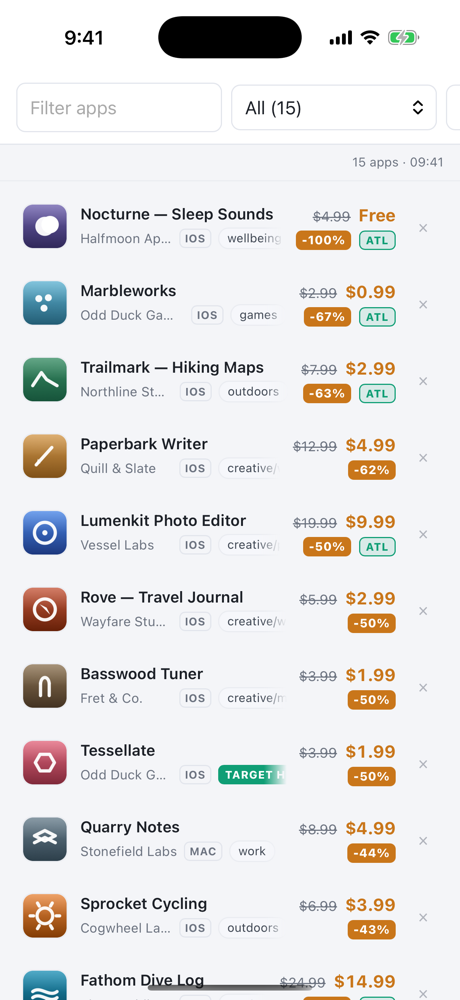
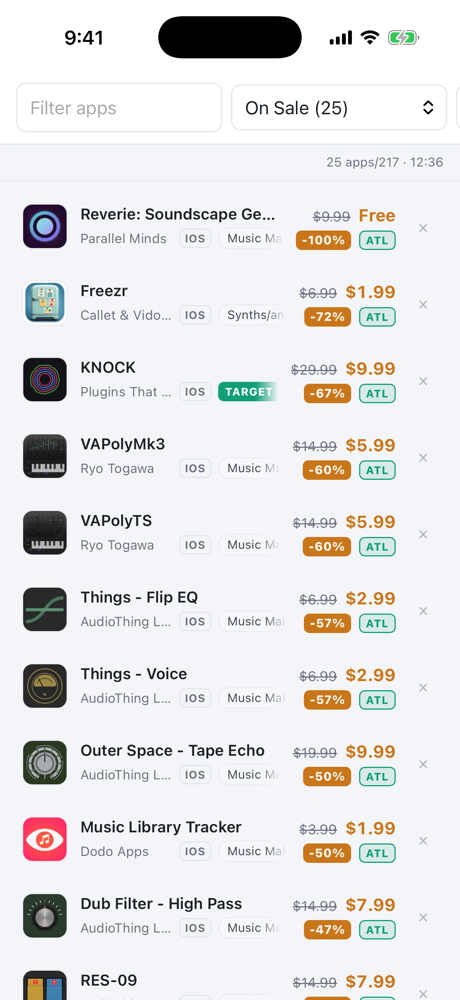
Real screenshots again, and say plainly that they are real
The fictional demo set read as spam, which is a fair reaction: invented app
names in a screenshot look like filler. Real other apps are not an option
either — Apple exposes only today's price, so a genuine discount cannot be
produced for an app nobody has been watching, and inventing one for a real
named app would be a false pricing claim about someone else's product.

So the screenshots go back to the actual 217-app watchlist, and the page now
says so out loud rather than hoping nobody asks. The list is heavy on music
apps; the callout names that instead of curating it away, and turns it into the
reason the app exists.

diff --git a/index.html b/index.html
@@ -222,6 +222,16 @@ h2{font-size:clamp(32px,5.2vw,54px);line-height:1.06;margin:14px 0 0;letter-spac
   background:var(--panel);box-shadow:0 40px 100px -50px rgba(0,0,0,.9)}
 .wide img{width:100%}
 .caption{font-size:12px;color:var(--faint);margin-top:14px;text-align:center}
+/* Screenshots of one person's genuine, lopsided library invite an obvious question. Answer it
+   in the open rather than curating the evidence until it looks like everybody's. */
+.real{margin:36px auto 0;max-width:64ch;border:1px solid var(--line);border-radius:14px;
+  background:var(--ink-2);padding:26px 28px;position:relative;overflow:hidden}
+.real::before{content:"";position:absolute;left:0;top:22px;bottom:22px;width:2px;
+  background:linear-gradient(180deg,var(--amber),transparent)}
+.real h3{font-size:23px;margin:0 0 12px}
+.real p{margin:0 0 12px;color:var(--muted);font-size:13.8px;line-height:1.7}
+.real p:last-child{margin-bottom:0}
+.real em{color:var(--text);font-style:italic}
 
 /* privacy */
 .plain{border-top:1px solid var(--line);border-bottom:1px solid var(--line);background:var(--ink-2)}
@@ -289,28 +299,29 @@ footer{padding:64px 0 76px;border-top:1px solid var(--line)}
         <span class="btn primary">Coming soon<small>Mac App Store &amp; iPhone</small></span>
         <a class="btn" href="#how">See how it works</a>
       </div>
-      <p class="cta-note">In development. No account, no subscription, no tracking.</p>
+      <p class="cta-note">In development. No account, no subscription, no tracking.<br>
+     Every screenshot here is a real watchlist, not a mockup.</p>
     </div>
 
     <div class="shot">
       <img src="assets/iphone-onsale.png" width="460" height="1000"
-           alt="Snipe on iPhone showing a watchlist of apps on sale, each with its old price struck through, the new price in amber, a discount percentage, and an all-time-low badge on the ones that have never been cheaper.">
+           alt="Snipe on iPhone showing 25 real apps currently on sale, each with its old price struck through, the new price in amber, a discount percentage and an all-time-low badge.">
     </div>
   </div>
 </div>
 
 <div class="tape" aria-hidden="true">
   <div class="tape-run">
-    <span><b>−100%</b> $4.99 → Free</span><span><b>−67%</b> $2.99 → $0.99</span>
-    <span><b>−63%</b> $7.99 → $2.99</span><span><b>−62%</b> $12.99 → $4.99</span>
-    <span><b>−50%</b> $19.99 → $9.99</span><span><b>−44%</b> $8.99 → $4.99</span>
-    <span><b>−43%</b> $6.99 → $3.99</span><span><b>−40%</b> $24.99 → $14.99</span>
-    <span><b>−33%</b> $11.99 → $7.99</span>
-    <span><b>−100%</b> $4.99 → Free</span><span><b>−67%</b> $2.99 → $0.99</span>
-    <span><b>−63%</b> $7.99 → $2.99</span><span><b>−62%</b> $12.99 → $4.99</span>
-    <span><b>−50%</b> $19.99 → $9.99</span><span><b>−44%</b> $8.99 → $4.99</span>
-    <span><b>−43%</b> $6.99 → $3.99</span><span><b>−40%</b> $24.99 → $14.99</span>
-    <span><b>−33%</b> $11.99 → $7.99</span>
+    <span><b>−100%</b> $9.99 → Free</span><span><b>−72%</b> $6.99 → $1.99</span>
+    <span><b>−67%</b> $29.99 → $9.99</span><span><b>−60%</b> $14.99 → $5.99</span>
+    <span><b>−57%</b> $6.99 → $2.99</span><span><b>−50%</b> $19.99 → $9.99</span>
+    <span><b>−47%</b> $14.99 → $7.99</span><span><b>−40%</b> $4.99 → $2.99</span>
+    <span><b>−35%</b> $19.99 → $12.99</span>
+    <span><b>−100%</b> $9.99 → Free</span><span><b>−72%</b> $6.99 → $1.99</span>
+    <span><b>−67%</b> $29.99 → $9.99</span><span><b>−60%</b> $14.99 → $5.99</span>
+    <span><b>−57%</b> $6.99 → $2.99</span><span><b>−50%</b> $19.99 → $9.99</span>
+    <span><b>−47%</b> $14.99 → $7.99</span><span><b>−40%</b> $4.99 → $2.99</span>
+    <span><b>−35%</b> $19.99 → $12.99</span>
   </div>
 </div>
 
@@ -402,10 +413,23 @@ footer{padding:64px 0 76px;border-top:1px solid var(--line)}
   </div>
   <div class="wide rise">
     <img src="assets/ipad-inspector.png" width="1350" height="1800"
-         alt="Snipe on iPad: a sidebar of views and nested tags, a list of watched apps with discounts and all-time-low badges, and a detail panel showing current price, regular price, all-time low, a price-history chart and a target-price field.">
+         alt="Snipe on iPad: a sidebar of views and tags, a list of 217 watched apps with discounts and all-time-low badges, and a detail panel showing current price, regular price, all-time low, price history and a target-price field.">
   </div>
-  <p class="caption">Snipe on iPad. The same layout runs on macOS.
-     Screenshots use a sample watchlist &mdash; the apps shown are fictional.</p>
+  <p class="caption">Snipe on iPad. The same layout runs on macOS.</p>
+
+  <div class="real rise">
+    <h3>That&rsquo;s a real watchlist.</h3>
+    <p>
+      Every screenshot on this page is Snipe running on an actual device, showing my own
+      list &mdash; 217 apps, real names, real prices. Nothing here is a mockup and no
+      numbers were invented for the page.
+    </p>
+    <p>
+      It leans hard on music apps because that is what I hoard &mdash; which is rather the point.
+      I built Snipe because my own wishlist got long enough that I kept missing sales on it.
+      Yours will look like whatever <em>you</em> collect.
+    </p>
+  </div>
 </section>
 
 <section id="privacy" class="plain">

diff --git a/README.md b/README.md
@@ -17,11 +17,17 @@ assets/       screenshots, app icon, favicons, social card
 `assets/iphone-onsale.png` and `assets/ipad-inspector.png` are real captures of the real
 app from the iOS Simulator, taken with a clean marketing status bar.
 
-The **watchlist in them is a sample**: fifteen fictional apps with generated icons. Apple's
-API exposes only today's price — no history and no sale flag — so a genuine discount cannot
-be obtained for an app nobody has been watching. Putting invented discounts on real, named
-apps would be a false pricing claim about someone else's product, so the demo set is
-fictional instead. The page says so under the iPad screenshot.
+The **watchlist in them is real** — Eric's own 217 apps, with real names, real prices and
+real recorded discounts. Nothing is mocked up.
+
+A fictional demo set was tried and rejected: invented app names read as spam. Real *other*
+apps were also rejected, because Apple's API exposes only today's price — no history, no
+sale flag — so a genuine discount cannot be produced for an app nobody has been watching,
+and inventing one for a real named app would be a false pricing claim about someone else's
+product.
+
+The list is heavy on iOS audio apps. Rather than curate that away, the page names it: see
+the "That's a real watchlist" callout under the iPad screenshot.
 
 To regenerate, see `scratchpad` notes in the Snipe repo, or reseed the simulator's App Group
 container with a watchlist.json and screenshot it:
